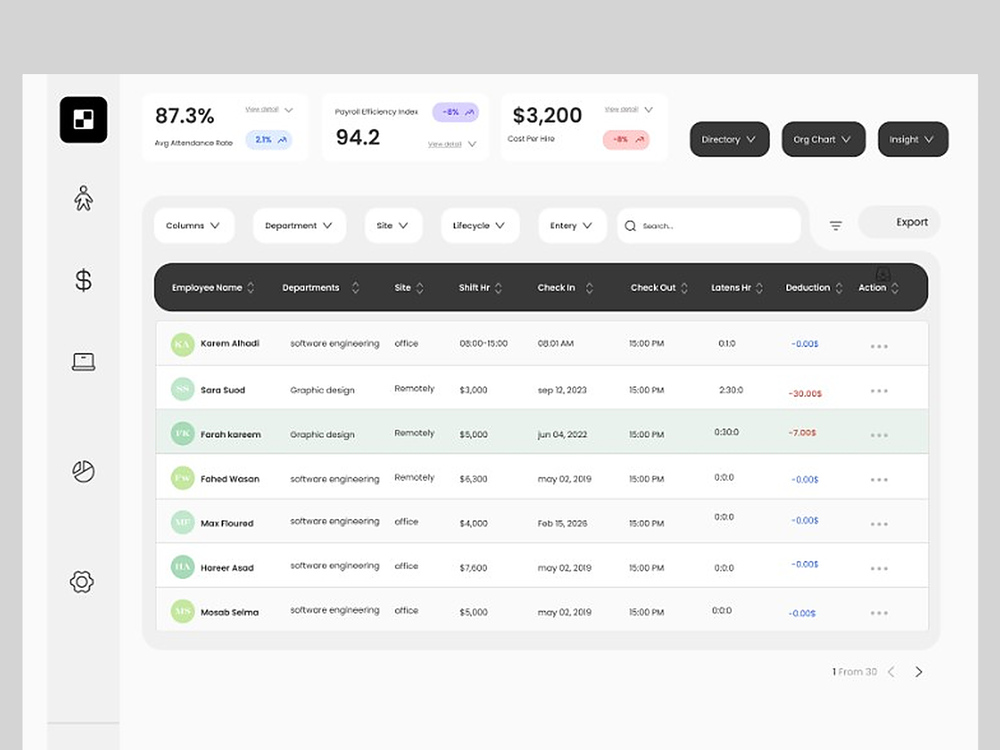
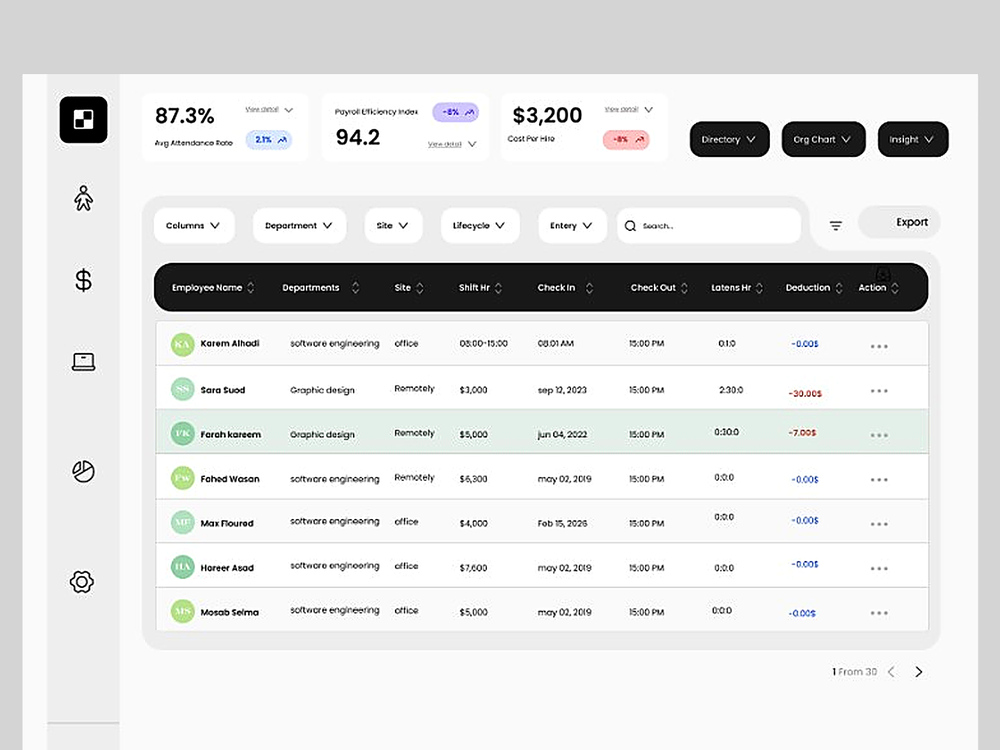
Single-page Attendees mockup: crisper page (deeper text tones, contrast, two-pass sharpening)
Claude-Session: https://claude.ai/code/session_01FdYAnoP1AuAPuCnLWf7gdc

diff --git a/behance-cover/mockups/set17.py b/behance-cover/mockups/set17.py
@@ -2,7 +2,7 @@
 # a chosen row (command line: page file, start row, name), enlarged with Lanczos and a light unsharp mask. Upwork 4:3 (1000x750, 2000x1500 JPEG) and
 # Behance artboard (1400x788, 2800x1576).
 import numpy as np
-from PIL import Image, ImageFilter
+from PIL import Image, ImageFilter, ImageEnhance
 I = '/tmp/claude-0/-home-user-claude-Ai-website-1/fd49522e-f0ff-52ed-b6c7-08cca43cc4fd/images/'
 base = Image.open(I + '184.webp').convert('RGB'); W0, H0 = base.size
 PAGE = (135.5, 134.5, 1864.5, H0)
@@ -14,7 +14,11 @@ for K in (1, 2):
     p = Image.open(I + SRC).convert('RGB'); k = (r - l) / p.width
     p = p.resize((r - l, round(p.height * k)), Image.LANCZOS); y = round(TOP * k); bg = p.getpixel((p.width // 2, p.height - 3))
     q = Image.new('RGB', (r - l, b - t), bg); q.paste(p.crop((0, y, r - l, min(p.height, y + b - t))), (0, 0)); p = q   # page colour below its end
-    p = p.filter(ImageFilter.UnsharpMask(radius=0.8 * k, percent=90, threshold=2))
+    # very high quality: enlarge in two Lanczos steps, deepen the text tones (gamma) and add contrast,
+    # then a two-pass unsharp mask (fine detail + edge) so small UI text reads crisp
+    p = p.point(lambda v: round(255 * (v / 255) ** 1.22)); p = ImageEnhance.Contrast(p).enhance(1.08)
+    p = p.filter(ImageFilter.UnsharpMask(radius=0.6 * k, percent=120, threshold=1))
+    p = p.filter(ImageFilter.UnsharpMask(radius=1.4 * k, percent=40, threshold=3))
     sc.paste(p, (l, t))
     W, H = sc.size; cw = round(H * 4 / 3); x0 = (W - cw) // 2
     sc.crop((x0, 0, x0 + cw, H)).resize((2000, 1500) if K == 2 else (1000, 750), Image.LANCZOS).save(
